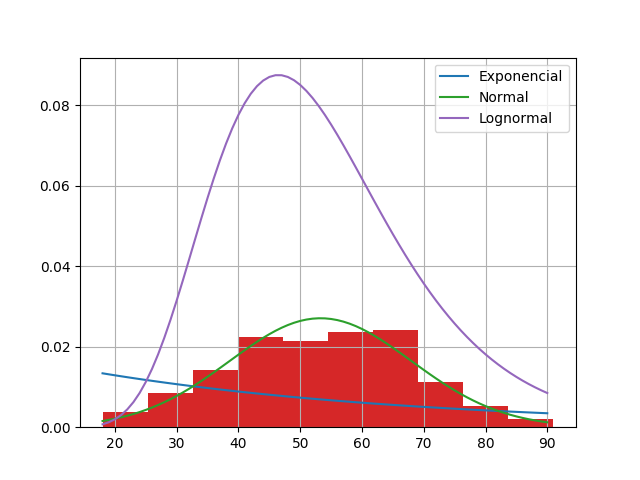
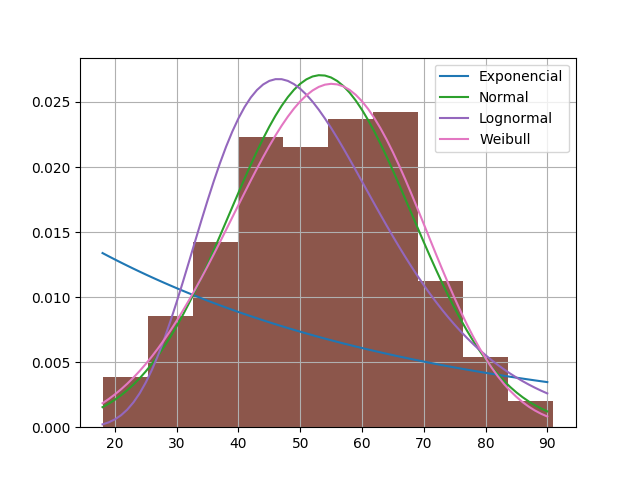
Teste de hipótese

diff --git a/TF/dataset.py b/TF/dataset.py
@@ -64,6 +64,16 @@ class Dataset:
                 j.append(self.lognormPmf(i, m, o2))
             ax.plot(range(int(math.floor(self.data[col].min())), int(math.ceil(self.data[col].max()))), j, label="Lognormal")
 
+
+            self.data[col].hist(density=True)
+            v = self.mleWeibull(col)
+            j = []
+            for i in range(int(math.floor(self.data[col].min())), int(math.ceil(self.data[col].max()))):
+                j.append(self.weibPmf(i,v))
+            ax.plot(range(int(math.floor(self.data[col].min())), int(math.ceil(self.data[col].max()))), j,
+                    label="Weibull")
+
+
             legend = ax.legend()
             legend.get_frame()
             plt.savefig("histogram_pmf/" + col + ".png")
@@ -73,24 +83,34 @@ class Dataset:
             stats.probplot(self.data[col], dist="expon", sparams=(0,1.0/l), plot=plt)
             plt.savefig("PPPlot/"+col+"_expon.png")
             plt.cla()
+            self.ksm("expon", col, (0,1.0/l))
+
 
             plt.title('ProbabilityPlot - '+col+'_Norm')
             stats.probplot(self.data[col], dist="norm", sparams=(gm, go2), plot=plt)
             plt.savefig("PPPlot/"+col+"_norm.png")
             plt.cla()
+            self.ksm("norm", col, (gm, go2))
+
 
             plt.title('ProbabilityPlot - '+col+'_Lognorm')
             stats.probplot(self.data[col], dist="lognorm", sparams=(o2, math.exp(m)), plot=plt)
             plt.savefig("PPPlot/"+col+"_lognorm.png")
             plt.cla()
+            self.ksm("lognorm", col, (o2, math.exp(m)))
+
+
+            plt.title('ProbabilityPlot - ' + col + '_Weibull')
+            stats.probplot(self.data[col], dist="exponweib", sparams=(v), plot=plt)
+            plt.savefig("PPPlot/" + col + "_Weibull.png")
+            plt.cla()
+            self.ksm("exponweib", col, v)
 
 
     def mleExp(self, col):
 
-        print "Exponential"
         c = self.data[col].count()*1.0
         l = c / self.data[col].sum()
-        print "lambda = ",l
         return l
 
     def mleGauss(self, col):
@@ -99,10 +119,6 @@ class Dataset:
         for i in self.data[col]:
             temp += (i-m)**2
         o2 = temp*1.0/self.data[col].count()
-
-        print "Gaussiam"
-        print "média: ", m
-        print "desvio padrao",o2
         return m, o2
 
 
@@ -117,24 +133,26 @@ class Dataset:
             temp2 += (math.log(i) - m)**2
 
         o2 = (temp2/self.data[col].count())
-
-        print "Lognormal"
-        print "média = ", m
-        print "desvio = ", o2
         return m, o2
 
+    def mleWeibull(self, col):
+        #v = stats.weibull_min.fit_loc_scale(self.data[col], 1, 1)
+        v = stats.exponweib.fit(self.data[col], 1, 1, scale=02, loc=0)
+
+        return v
 
     def expPmf(self, x, l):
         return l*math.exp(-l*x)
 
-    def weib(self, x,lamb,k):
-        return (k / lamb) * (x / lamb)**(k-1) * np.exp(-(x/lamb)**k)
+    def weibPmf(self, x, v):
+        r = stats.exponweib.pdf(x, *v)
+        return r
 
     def gaussPmf(self, x, m, o2):
         return ((2*math.pi*o2)**(-0.5))*math.exp(-0.5*(((x - m)**2)/o2))
 
     def lognormPmf(self, x, m, o2):
-        p1 = 1.0/(x*o2*math.sqrt(2*math.pi))
+        p1 = 1.0/(x*math.sqrt(o2)*math.sqrt(2*math.pi))
         p2 = (-(math.log(x)-m)**2)/(2*o2)
         return p1*math.exp(p2)
 
@@ -159,3 +177,18 @@ class Dataset:
 
         for i in r:
             print i
+
+
+    def ksm(self, dis, col, p):
+        print "TESTE: ",stats.kstest(self.data[col], cdf=dis, args= p)
+
+
+    def scatterPlot(self, col1):
+        for col in self.data:
+            if col != "VO2":
+                plt.scatter(self.data[col1], self.data[col])
+                plt.title(""+col1+" X "+col+"")
+                plt.xlabel(col1)
+                plt.ylabel(col)
+                plt.savefig("scatterplot/" + col1 +"X"+col+ ".png")
+                plt.cla()

diff --git a/TF/main.py b/TF/main.py
@@ -2,6 +2,6 @@ import dataset
 
 f = dataset.Dataset("data/Dados-medicos.csv")
 
-print float(f.data.iloc[0]["IDADE"])
 
-f.corr()
+f.paramet()
+
